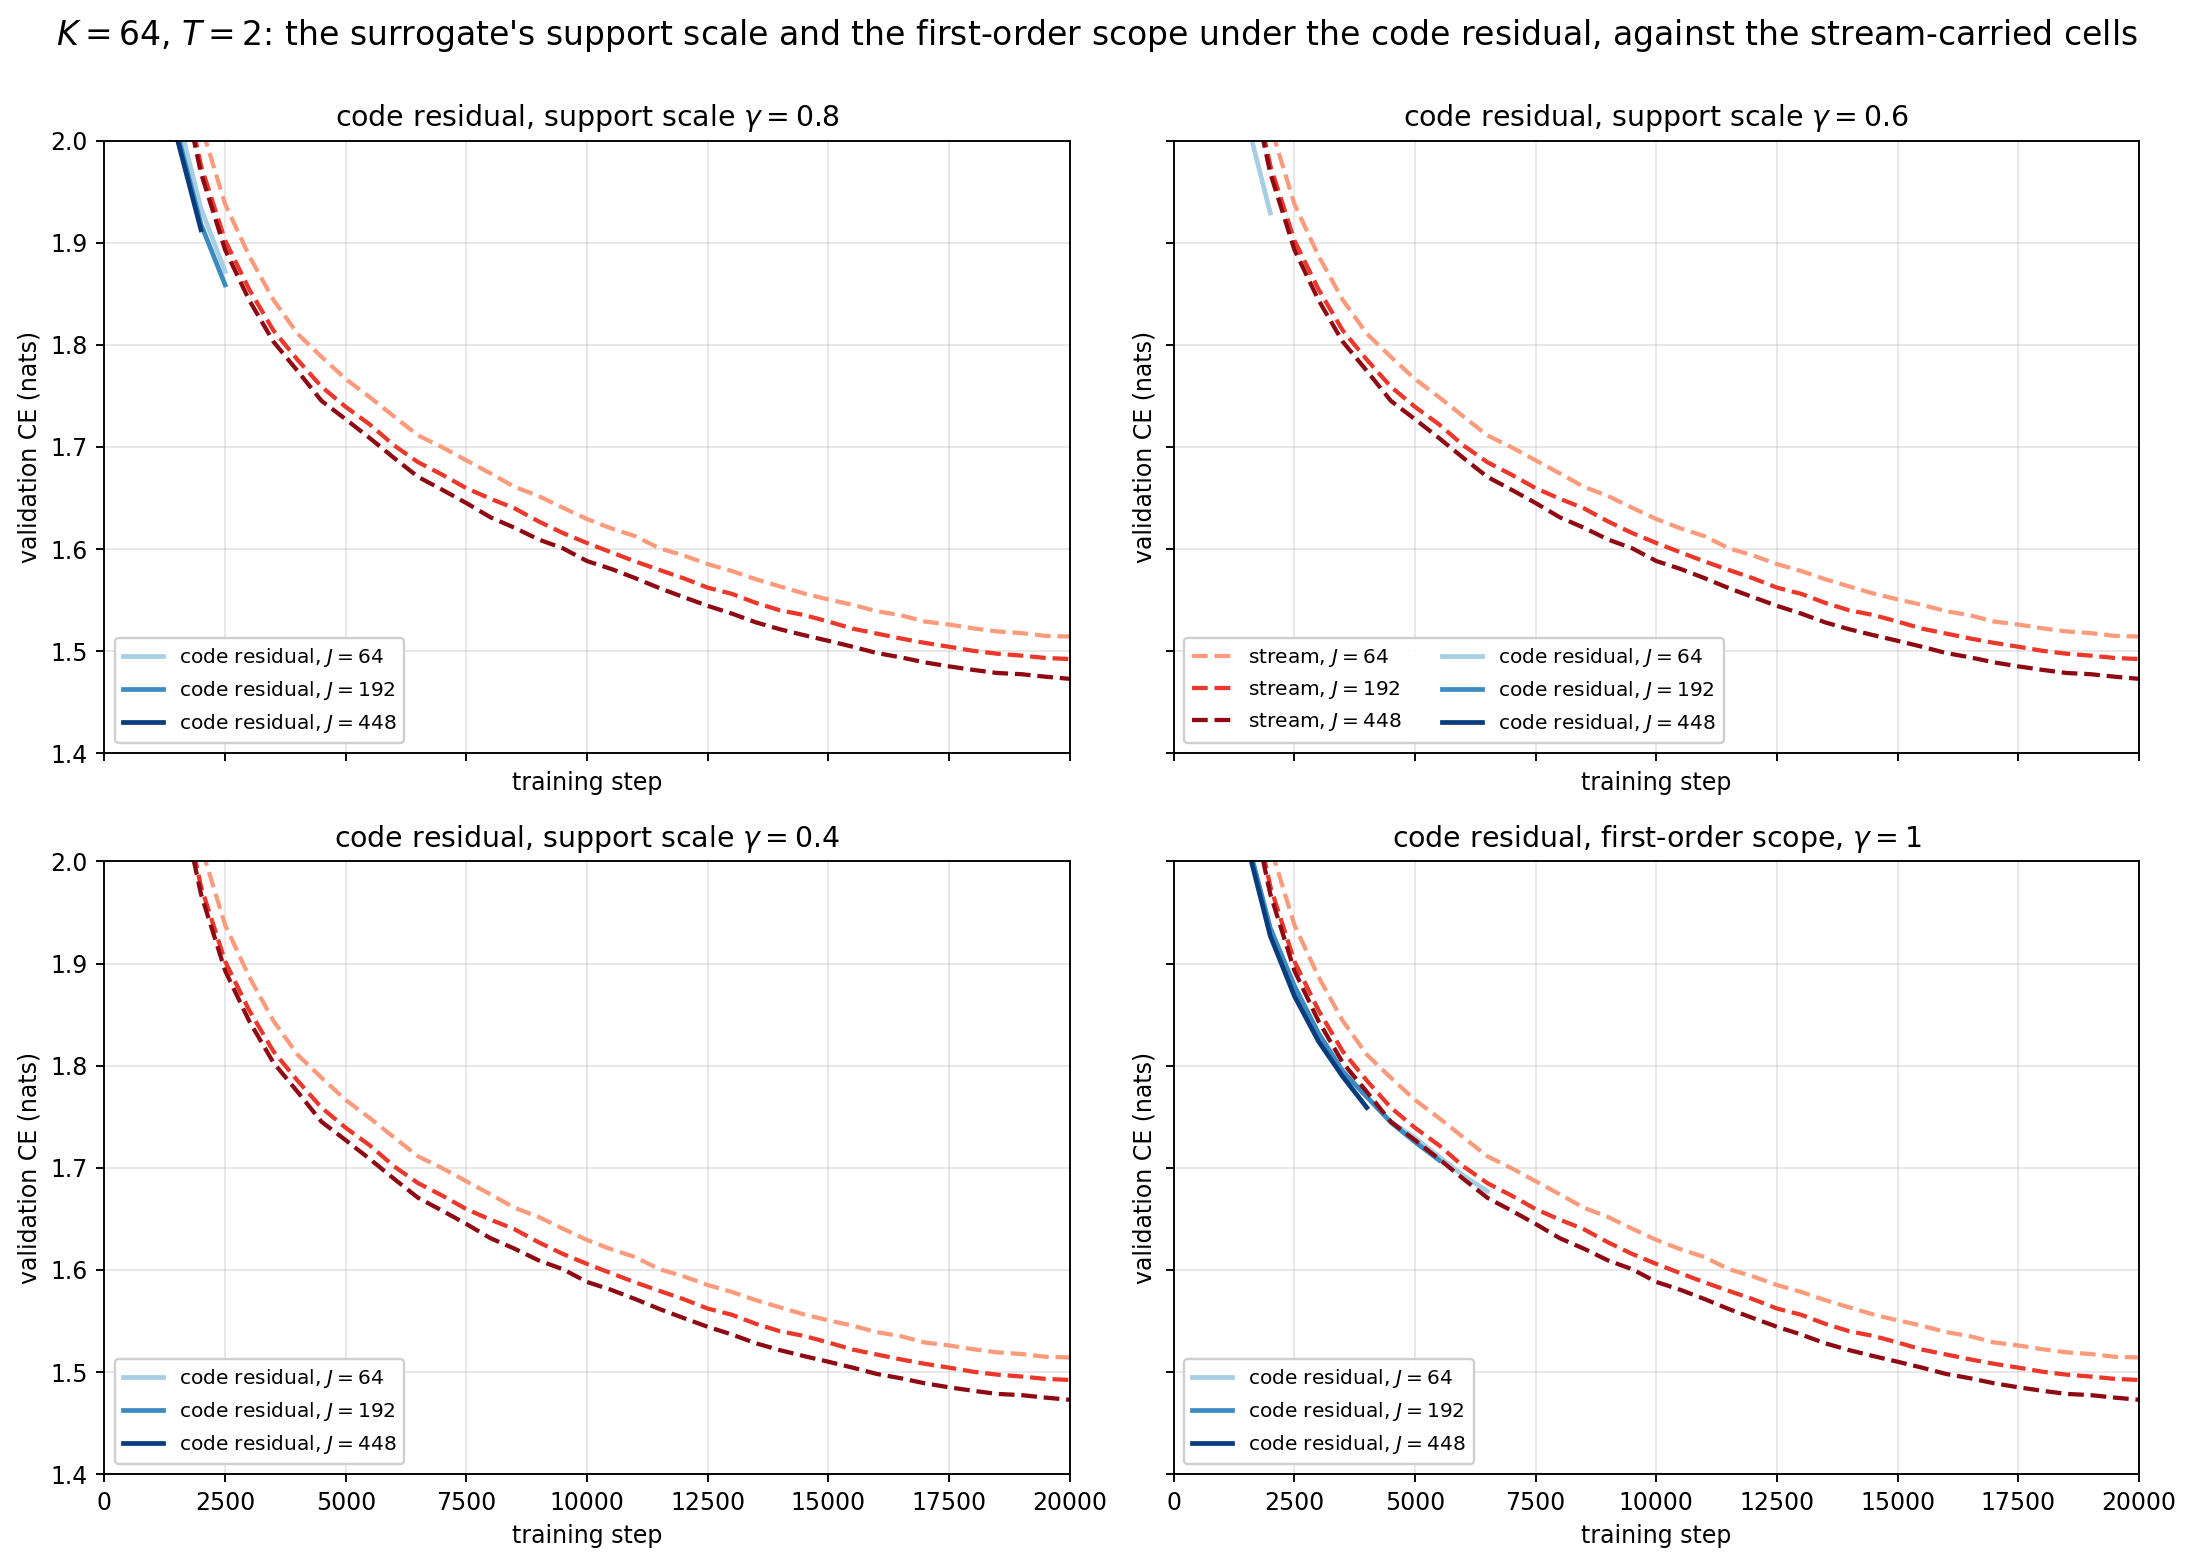
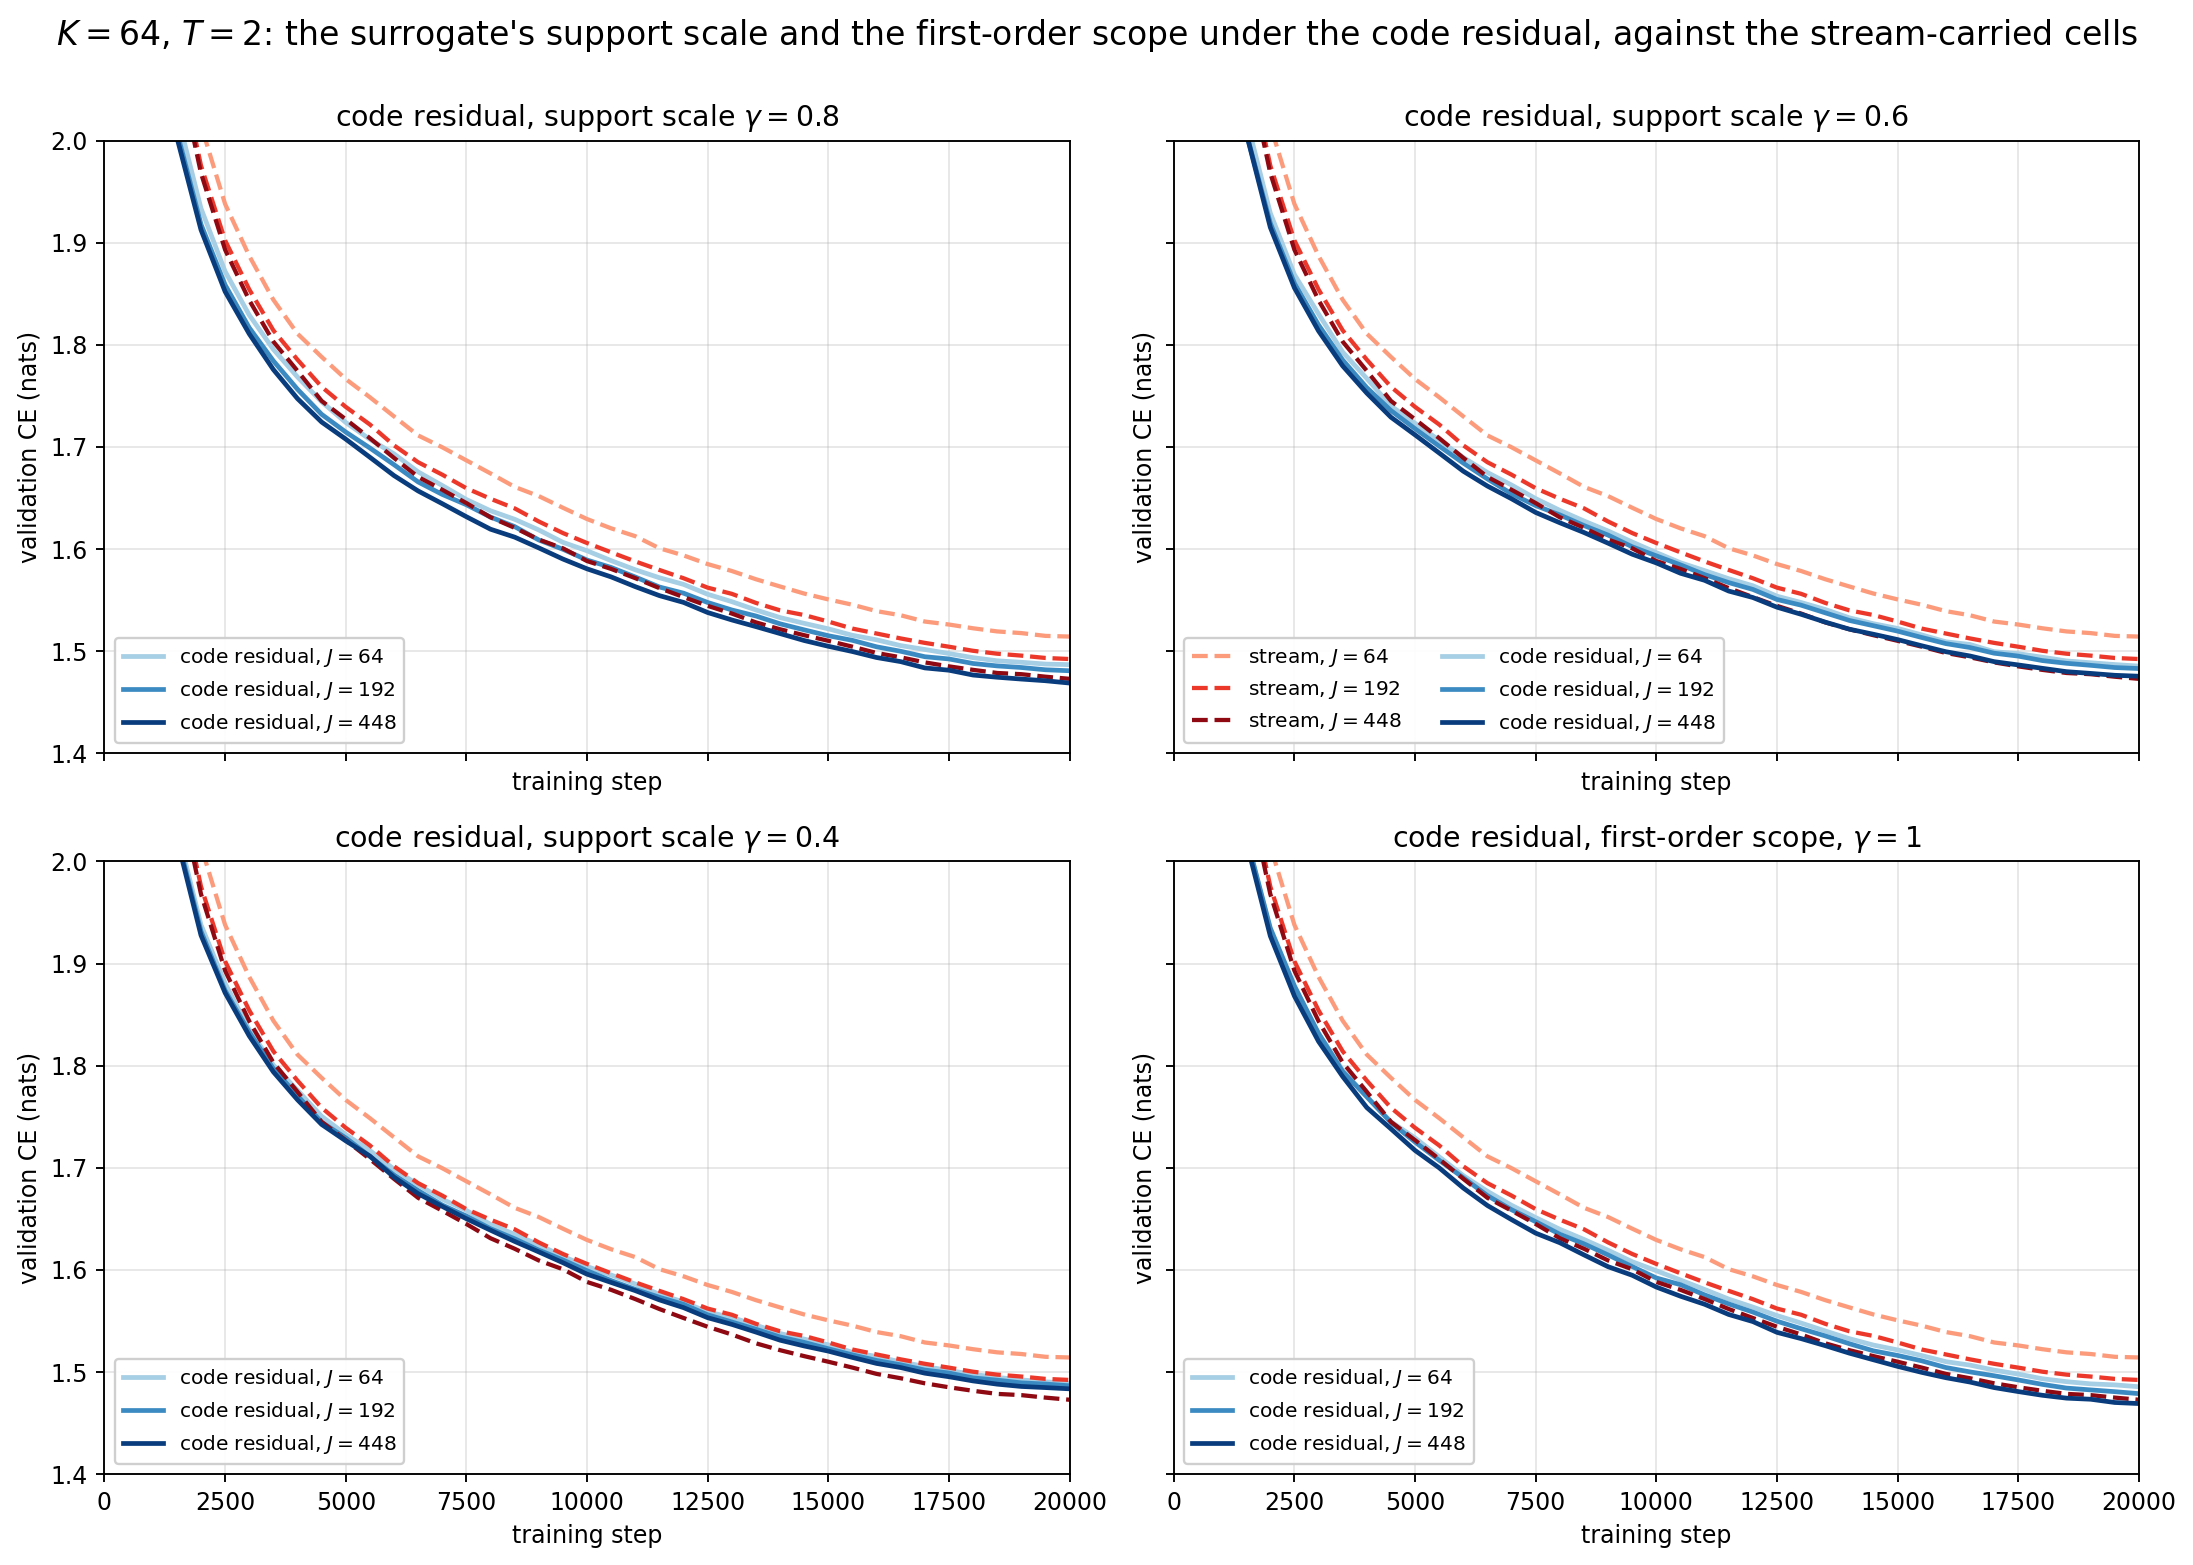
docs: code-residual K+J note -- K=64 sweep block (support scale, first-order)

diff --git a/docs/kj-vs-hard-topk-code-residual.tex b/docs/kj-vs-hard-topk-code-residual.tex
@@ -85,7 +85,10 @@ surrogate, and the first-order scope, which removes the products of support
 terms along the carry, costs $0.007$--$0.024$; the penalty grows with $J$.
 The compounding of support terms along the carry is therefore not what
 limits the code-carried surrogate at $T=2$: the full term with the plain
-backward is its best variant at every $J$. \PH{K=64, 128, 256 to follow}
+backward is its best variant at every $J$. At $K = 64$ the same ordering
+holds with penalties two to five times smaller ($0.001$--$0.019$), and the
+first-order scope is within $0.005$ of the full term. \PH{K=128, 256 to
+follow}
 \end{itemize}
 
 % ============================================================
@@ -606,7 +609,41 @@ section, which lie within $0.02$ of the dashed curves.}
 \end{figure}
 
 %% K=64, K=128, K=256 blocks are appended here as each K's sweep finishes
-%%SWEEP-K64%%
+\subsection*{$K = 64$}
+
+\begin{center}\small
+\begin{tabular}{lcccccc}
+\toprule
+$J$ & stream & code, $\gamma{=}1$ & $\gamma{=}0.8$ & $\gamma{=}0.6$ & $\gamma{=}0.4$ & first-order \\
+\midrule
+$64$  & 1.5142 & 1.4840 & 1.4867 & 1.4852 & 1.4891 & 1.4855 \\
+$192$ & 1.4922 & 1.4773 & 1.4807 & 1.4828 & 1.4864 & 1.4787 \\
+$448$ & 1.4727 & 1.4641 & 1.4686 & 1.4753 & 1.4835 & 1.4690 \\
+\bottomrule
+\end{tabular}
+\end{center}
+
+The same ordering as at $K = 32$ with smaller margins: the full code-carried
+surrogate is again the best variant at every $J$, and relative to it
+$\gamma = 0.8$ costs $0.003$--$0.005$ nats, $\gamma = 0.6$ $0.001$--$0.011$,
+$\gamma = 0.4$ $0.005$--$0.019$ and the first-order scope $0.001$--$0.005$,
+each penalty growing with $J$ and each two to five times smaller than its
+$K = 32$ counterpart. At $J = 64$ the five code-carried variants span
+$0.005$ nats, all $0.025$--$0.030$ below the stream-carried cell; at
+$J = 448$ they span $0.019$, and the two most weakened ones ($\gamma = 0.6$,
+$0.4$) fall behind the stream-carried cell ($1.4727$) while $\gamma = 0.8$,
+the first-order scope and $\gamma = 1$ stay ahead of it. The first-order
+scope is within $0.005$ of $\gamma = 1$ at every $J$: at $K = 64$ the
+products of support terms along the carry are nearly inert.
+
+\begin{figure}[htb]\centering
+\includegraphics[width=\textwidth]{figures/kj-cr/cr_k64_sweep.png}
+\caption{$K = 64$, $T = 2$, no output norm; panels and colours as in the
+$K = 32$ figure, $J = 64, 192, 448$. Every solid curve lies below the dashed
+curve of its $J$ in the $\gamma = 0.8$ and first-order panels; in the
+$\gamma = 0.6$ and $\gamma = 0.4$ panels the $J = 448$ curves cross late in
+training and the stream-carried cell ends below.}
+\end{figure}
 
 %%SWEEP-K128%%
 
@@ -668,8 +705,11 @@ the carry took from the surrogate's margin is therefore not recovered by
 changing the backward; it is the re-selection that the window no longer has
 to compensate, the first reading. The compounding does matter at $T = 1$,
 where it collapsed half of the post-norm arm, so the two kernel widths sit
-on opposite sides of its threshold at this depth. \PH{sweep at K=64, 128,
-256}
+on opposite sides of its threshold at this depth. At $K = 64$ the
+penalties for weakening the term shrink to $0.001$--$0.019$ and the
+first-order scope becomes nearly equivalent to the full backward, so the
+part of the surrogate's gradient that the carry compounds is itself small
+once the window holds 64 active features. \PH{sweep at K=128, 256}
 
 % ============================================================
 \section{Scope}
